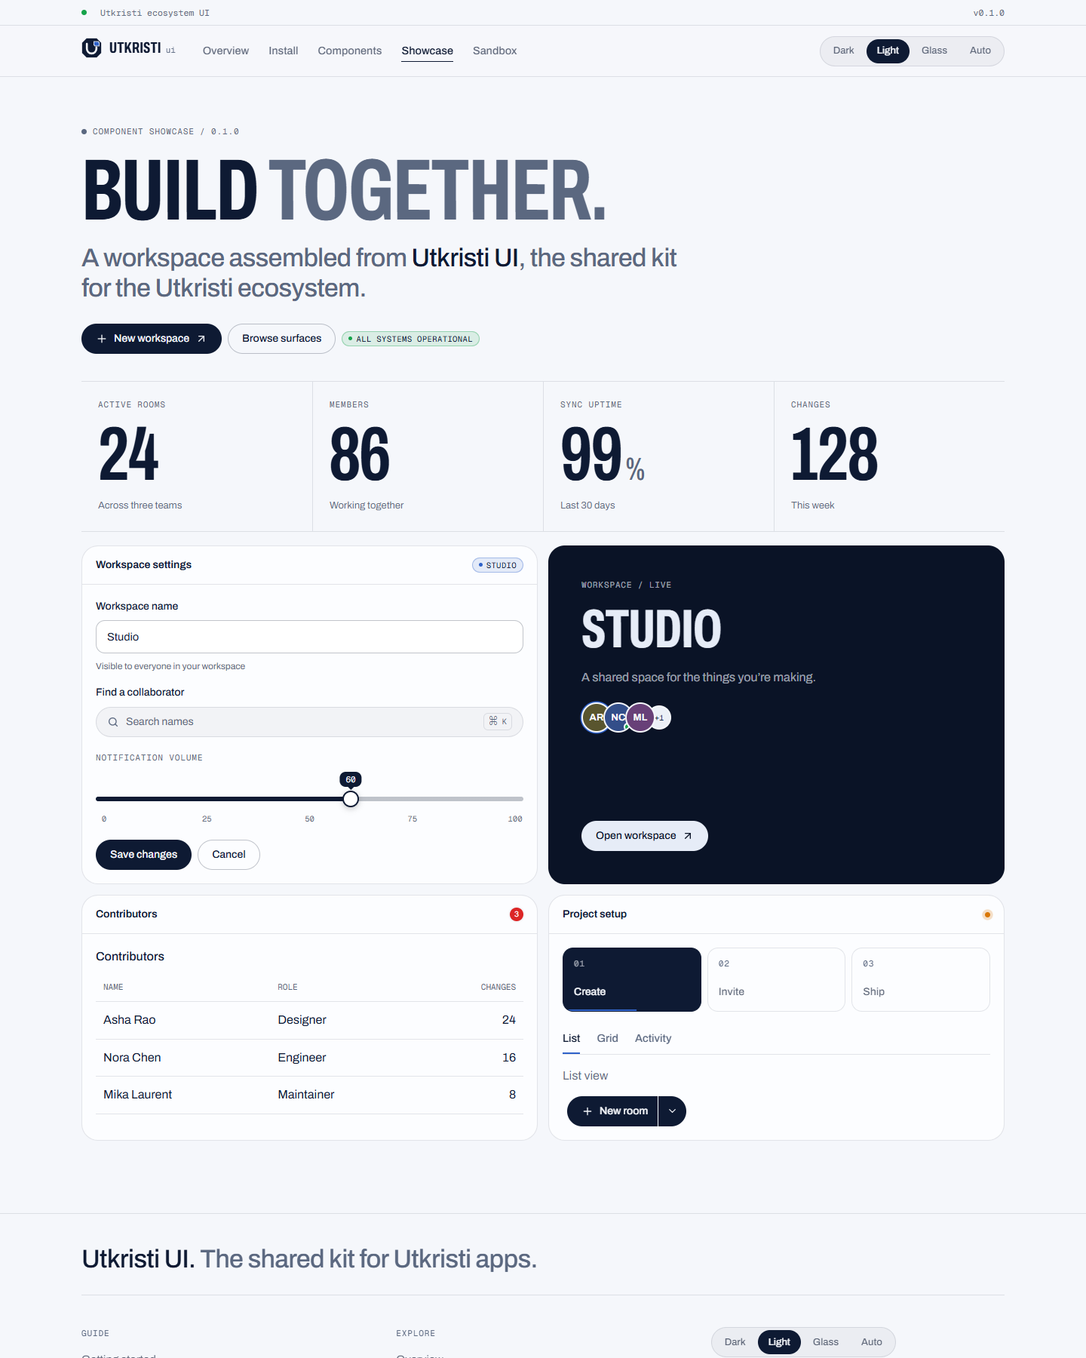
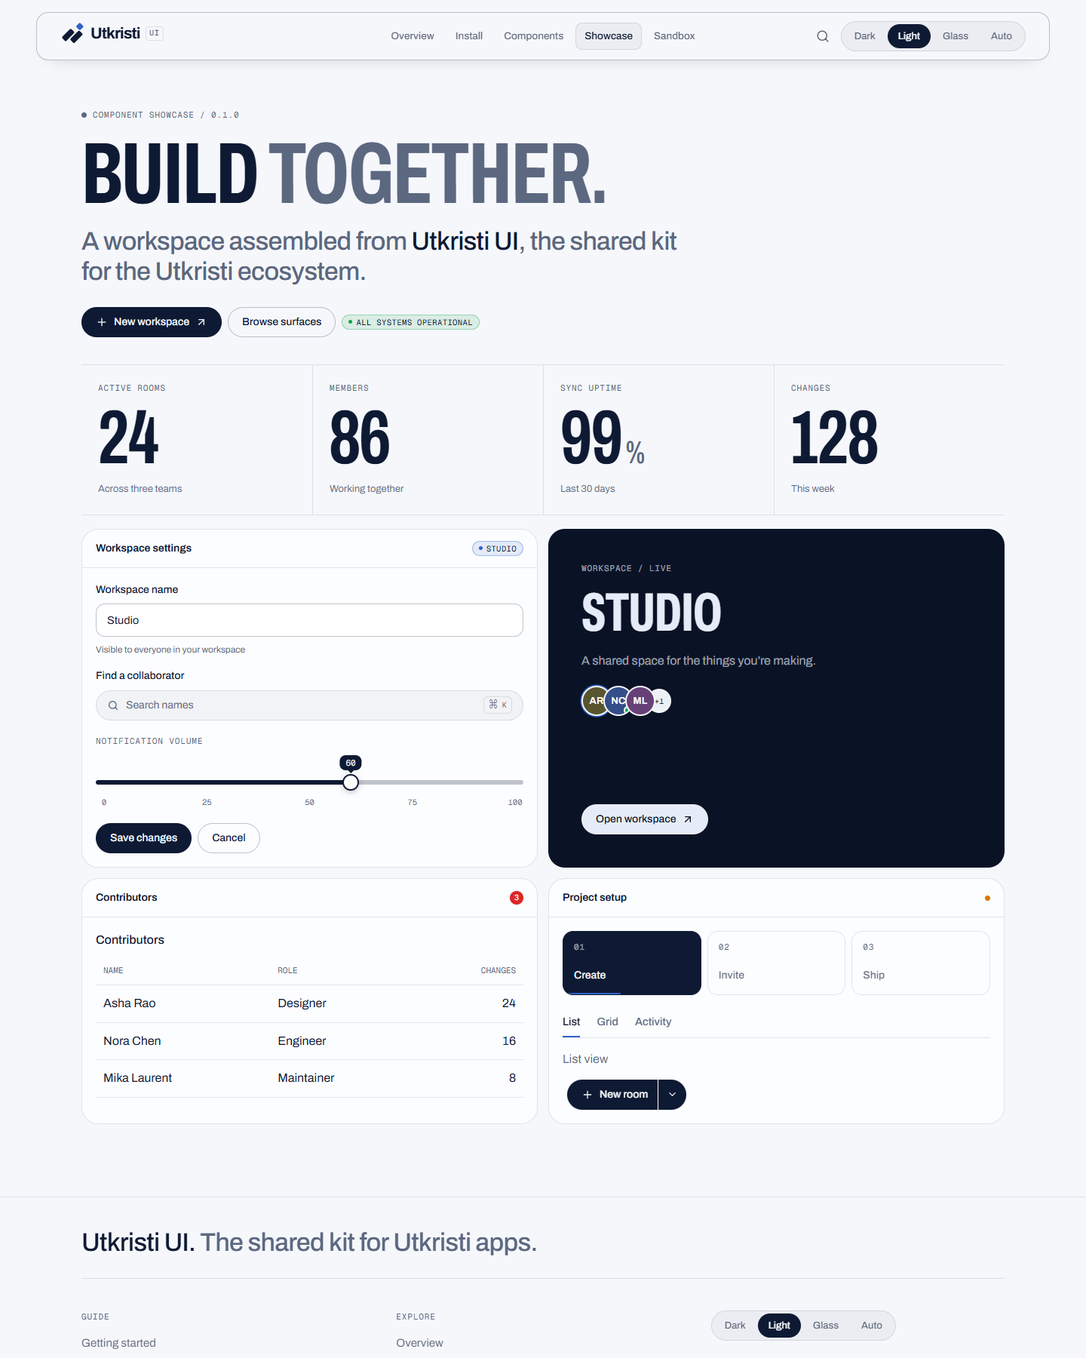
'v0.0.1'

diff --git a/src/styles/components.css b/src/styles/components.css
@@ -173,6 +173,52 @@ button.chip:hover:where(:not(.is-active, [aria-pressed="true"], [aria-checked="t
 .navbar-right { display: flex; align-items: center; gap: 6px; }
 .burger, .icon-btn.burger { display: none; }
 
+.header-dock {
+  padding: clamp(8px, 1.35vw, 16px) var(--ut-side) 0;
+}
+.header-dock .strip { background: none; border: 0; }
+.header-dock .strip-inner { padding-inline: 14px; max-inline-size: 1360px; }
+.navbar-dock {
+  inline-size: 100%; max-inline-size: 1360px; margin-inline: auto;
+  height: auto; border: 1px solid var(--ut-navbar-tint, var(--ut-line-2));
+  border-radius: var(--ut-r); box-shadow: 0 10px 24px -20px rgba(0, 0, 0, .38);
+}
+.navbar-dock .navbar-inner {
+  display: grid; grid-template-columns: minmax(max-content, 1fr) minmax(0, auto) minmax(max-content, 1fr);
+  gap: 12px; min-height: 62px; padding: 6px clamp(10px, 1.5vw, 20px);
+}
+.navbar-dock .navbar-right { justify-content: flex-end; }
+.navbar-dock .navbar-links {
+  gap: 4px; min-width: 0; overflow-x: auto; scrollbar-width: none; padding: 3px;
+}
+.navbar-dock .navbar-dock-link {
+  display: inline-flex; align-items: center; flex: none; min-height: 36px; padding: 0 11px; border: 1px solid transparent;
+  border-radius: 9px; font-size: 13.5px; font-weight: 500; line-height: 1; white-space: nowrap;
+}
+.navbar-dock .navbar-dock-link:hover { background: var(--ut-control-tint, var(--ut-tint)); }
+.navbar-dock .navbar-dock-link:is([aria-current="page"], [aria-current="true"], .is-active) {
+  color: var(--ut-control-ink, var(--ut-ink)); background: var(--ut-control-tint, var(--ut-tint));
+  border-color: var(--ut-control-line, var(--ut-line-2));
+}
+.navbar-dock .navbar-dock-link:focus-visible { outline-offset: -2px; }
+
+.sheet-dock { gap: 18px; padding-top: max(16px, env(safe-area-inset-top)); }
+.sheet-dock .sheet-top { flex: none; min-height: 48px; border-bottom: 1px solid var(--ut-line); padding-bottom: 10px; }
+.sheet-dock .sheet-nav { justify-content: flex-start; gap: 7px; }
+.sheet-dock .sheet-dock-link {
+  display: flex; align-items: center; justify-content: space-between; gap: 12px; min-height: 54px;
+  padding: 10px 14px; border: 1px solid var(--ut-line); border-radius: var(--ut-r-field);
+  color: var(--ut-ink-2); font-size: clamp(16px, 4.5vw, 22px); font-weight: 500; line-height: 1.25;
+}
+.sheet-dock .sheet-dock-link:hover, .sheet-dock .sheet-dock-link[aria-current="page"] {
+  background: var(--ut-tint); color: var(--ut-ink); border-color: var(--ut-line-2);
+}
+.sheet-dock .sheet-dock-link[aria-current="page"]::after {
+  content: ""; flex: none; width: 7px; height: 7px; border-radius: 50%; background: var(--ut-accent);
+}
+.sheet-dock .sheet-foot { flex: none; padding-top: 12px; border-top: 1px solid var(--ut-line); }
+
+
 .pop, .menu {
   min-width: 240px; padding: 6px;
   background: var(--ut-raise) var(--ut-surface-sheen, none); border: 1px solid var(--ut-line); border-radius: 16px; box-shadow: var(--ut-shadow); -webkit-backdrop-filter: var(--ut-surface-filter, none); backdrop-filter: var(--ut-surface-filter, none);
@@ -309,17 +355,16 @@ button.chip:hover:where(:not(.is-active, [aria-pressed="true"], [aria-checked="t
 
 .badge-count { min-width: 18px; height: 18px; padding: 0 5px; border-radius: 999px; background: var(--ut-bad); color: var(--ut-on-bad); font-family: var(--ut-font-mono); font-size: 10px; display: inline-flex; align-items: center; justify-content: center; box-shadow: 0 0 0 2px var(--ut-bg); }
 
-.brand { display: inline-flex; align-items: center; gap: 10px; cursor: pointer; line-height: 1; color: var(--ut-ink, #E8E6DF); }
+.brand { display: inline-flex; align-items: center; gap: 8px; line-height: 1; color: var(--ut-ink, #E8E6DF); }
 .brand-mark { flex: none; display: block; overflow: visible; }
 .brand-tile { fill: var(--ut-brand-ink, var(--ut-ink, #E8E6DF)); transition: fill .4s var(--ut-ease, ease); }
 .brand-ring { stroke: var(--ut-brand-bg, var(--ut-bg, #0B0B0A)); }
 .brand-halo { fill: var(--ut-brand-bg, var(--ut-bg, #0B0B0A)); }
-.brand-dot { fill: var(--ut-brand-accent, var(--ut-accent, #9CC3FF)); transform-box: fill-box; transform-origin: center; transition: transform .5s var(--ut-ease, ease); }
-.brand:hover .brand-dot { transform: scale(1.25); fill: var(--ut-brand-ink, var(--ut-ink, #E8E6DF)); }
-.brand:hover .brand-tile { fill: var(--ut-brand-accent, var(--ut-accent, #9CC3FF)); }
-.brand-name { display: inline-flex; align-items: baseline; gap: .34em; white-space: nowrap; }
-.brand-pre { font-family: var(--ut-font-display, 'Archivo', sans-serif); font-stretch: 62%; font-weight: 700; text-transform: uppercase; letter-spacing: .01em; font-size: 1.14em; color: var(--ut-brand-ink, var(--ut-ink, #E8E6DF)); }
-.brand-co { font-family: var(--ut-font-mono, monospace); font-weight: 400; font-size: .6em; color: var(--ut-brand-muted, var(--ut-ink-3, #8E8B83)); }
+.brand-dot { fill: var(--ut-brand-accent, var(--ut-accent, #9CC3FF)); transition: transform .25s var(--ut-ease); }
+.brand:hover .brand-dot { transform: translate(1px, -1px); }
+.brand-name { display: inline-flex; align-items: center; gap: .36em; white-space: nowrap; }
+.brand-pre { font-family: var(--ut-font-text, 'Archivo', sans-serif); font-weight: 700; letter-spacing: -.045em; font-size: 1em; color: var(--ut-brand-ink, var(--ut-ink, #E8E6DF)); }
+.brand-co { font-family: var(--ut-font-mono, monospace); font-weight: 500; font-size: .49em; text-transform: uppercase; letter-spacing: .06em; padding: .32em .4em; border: 1px solid var(--ut-control-line, var(--ut-line-2)); border-radius: 4px; color: var(--ut-brand-muted, var(--ut-ink-3, #8E8B83)); }
 
 @keyframes ut-up { from { transform: translateY(40px); opacity: 0; } }
 
@@ -548,6 +593,7 @@ input.switch { display: inline-block; margin: 0; }
 
 @media (max-width: 980px) {
   .navbar-links { display: none; }
+  .navbar-dock .navbar-inner { grid-template-columns: minmax(0, 1fr) auto; }
   .burger, .icon-btn.burger { display: inline-flex; }
   .stats { grid-template-columns: repeat(2, minmax(0, 1fr)); }
   .stat:nth-child(odd) { border-left: 0; }
@@ -556,6 +602,8 @@ input.switch { display: inline-block; margin: 0; }
 
 @media (max-width: 700px) {
   .navbar { height: 60px; }
+  .navbar-dock { height: auto; }
+  .navbar-dock .navbar-inner { min-height: 52px; }
   .steps { grid-template-columns: minmax(0, 1fr); }
   .step { flex-direction: row; justify-content: space-between; align-items: center; gap: 10px; }
   .modal-backdrop { align-items: flex-end; padding: 0; }
@@ -577,7 +625,7 @@ input.switch { display: inline-block; margin: 0; }
 @media (prefers-reduced-motion: reduce) {
   .pop, .modal-backdrop, .modal, .sheet, .sheet-lines > * > a > span, .toast,
   .dot::after, .skeleton, .step.is-running::after, .grain { animation: none; }
-  .link::after, .tab::after, .header { transition: none; }
+  .link::after, .tab::after, .header, .brand-dot { transition: none; }
 }
 
 

diff --git a/src/react/Navbar.tsx b/src/react/Navbar.tsx
@@ -13,6 +13,8 @@ type RenderLink = (link: NavbarLink, props: AnchorHTMLAttributes<HTMLAnchorEleme
 
 export interface NavbarProps extends HTMLAttributes<HTMLElement> {
   brand?: ReactNode;
+  /** Display navigation in an inset bar with centered links. */
+  variant?: 'standard' | 'dock';
   links?: NavbarLink[];
   renderLink?: RenderLink;
   right?: ReactNode;
@@ -24,20 +26,24 @@ export interface NavbarProps extends HTMLAttributes<HTMLElement> {
 
 const defaultLink: RenderLink = (link, { children, ...props }) => <a href={link.href} {...props}>{children}</a>;
 
-function MobileSheet({ id, brand, links, renderLink, onSearch, sheetFoot, onClose }: Pick<NavbarProps, 'brand' | 'onSearch' | 'sheetFoot'> & {
+function MobileSheet({ id, brand, links, renderLink, onSearch, sheetFoot, variant, onClose }: Pick<NavbarProps, 'brand' | 'onSearch' | 'sheetFoot' | 'variant'> & {
   id: string; links: NavbarLink[]; renderLink: RenderLink; onClose: () => void;
 }) {
   const ref = useRef<HTMLDivElement>(null);
-  useDialogFocus(ref, onClose);
+  const closeButton = useRef<HTMLButtonElement>(null);
+  const dock = variant === 'dock';
+  useDialogFocus(ref, onClose, dock ? closeButton : undefined);
   useScrollLock(true);
-  return <div id={id} ref={ref} role="dialog" aria-modal="true" aria-label="Menu" tabIndex={-1} className="sheet">
-    <div className="sheet-top">{brand}<IconButton label="Close menu" onClick={onClose}><Icon name="close" size={22} /></IconButton></div>
+  return <div id={id} ref={ref} role="dialog" aria-modal="true" aria-label="Menu" tabIndex={-1} className={cx('sheet', dock && 'sheet-dock')}>
+    <div className="sheet-top" onClickCapture={(event) => {
+      if (event.target instanceof Element && event.target.closest('a[href]')) onClose();
+    }}>{brand}<IconButton ref={closeButton} label="Close menu" onClick={onClose}><Icon name="close" size={22} /></IconButton></div>
     {onSearch && <button type="button" className="sheet-search" onClick={() => { onClose(); onSearch(); }}>
       <Icon name="search" size={18} /><span>Search pages</span>
     </button>}
-    <nav aria-label="Primary" className="sheet-nav sheet-lines">
+    <nav aria-label="Primary" className={cx('sheet-nav', !dock && 'sheet-lines')}>
       {links.map((link, index) => <div key={link.href} style={{ '--d': `${80 + index * 70}ms` } as CSSVariables}>{renderLink(link, {
-        className: 'display', 'aria-current': link.active ? 'page' : undefined, onClick: onClose,
+        className: dock ? 'sheet-dock-link' : 'display', 'aria-current': link.active ? 'page' : undefined, onClick: onClose,
         children: <span>{link.label}</span>,
       })}</div>)}
     </nav>
@@ -46,12 +52,13 @@ function MobileSheet({ id, brand, links, renderLink, onSearch, sheetFoot, onClos
 }
 
 export const Navbar = forwardRef<HTMLElement, NavbarProps>(function Navbar(
-  { brand = <Logo size={28} />, links = [], renderLink = defaultLink, right, strip, hideOnScroll, onSearch,
+  { brand = <Logo size={28} />, variant = 'standard', links = [], renderLink = defaultLink, right, strip, hideOnScroll, onSearch,
     sheetFoot, className, children, ...props }, ref,
 ) {
   const [open, setOpen] = useState(false);
   const [away, setAway] = useState(false);
   const id = useId();
+  const dock = variant === 'dock';
 
   useEffect(() => {
     if (!hideOnScroll) return;
@@ -81,18 +88,23 @@ export const Navbar = forwardRef<HTMLElement, NavbarProps>(function Navbar(
     return () => narrow.removeEventListener('change', change);
   }, [open]);
 
+  const navigation = links.length ? <nav className="navbar-links" aria-label="Primary">
+    {links.map((link) => <Fragment key={link.href}>{renderLink(link, {
+      className: dock ? 'navbar-dock-link' : 'link',
+      'aria-current': link.active ? 'page' : undefined,
+      children: link.label,
+    })}</Fragment>)}
+  </nav> : null;
+
   return <>
-    <header {...props} ref={ref} className={cx('header', hideOnScroll && away && !open && 'is-away', className)}>
+    <header {...props} ref={ref} className={cx('header', dock && 'header-dock', hideOnScroll && away && !open && 'is-away', className)}>
       {strip && <div className="strip"><div className="strip-inner"><div>{strip.left}</div><div>{strip.right}</div></div></div>}
-      <div className="navbar"><div className="navbar-inner">
+      <div className={cx('navbar', dock && 'navbar-dock')}><div className="navbar-inner">
         <div className="navbar-left">
           {brand}
-          <nav className="navbar-links" aria-label="Primary">
-            {links.map((link) => <Fragment key={link.href}>{renderLink(link, {
-              className: 'link', 'aria-current': link.active ? 'page' : undefined, children: link.label,
-            })}</Fragment>)}
-          </nav>
+          {!dock && navigation}
         </div>
+        {dock && navigation}
         <div className="navbar-right">
           {right}
           <IconButton label="Open menu" className="burger" aria-expanded={open} aria-controls={open ? id : undefined} onClick={() => setOpen(true)}>
@@ -103,7 +115,7 @@ export const Navbar = forwardRef<HTMLElement, NavbarProps>(function Navbar(
       {children}
     </header>
     {open && <Portal><MobileSheet id={id} brand={brand} links={links} renderLink={renderLink}
-      onSearch={onSearch} sheetFoot={sheetFoot} onClose={() => setOpen(false)} /></Portal>}
+      onSearch={onSearch} sheetFoot={sheetFoot} variant={variant} onClose={() => setOpen(false)} /></Portal>}
   </>;
 });
 

diff --git a/docs/src/examples.tsx b/docs/src/examples.tsx
@@ -195,10 +195,10 @@ export const examples = {
     jsx: '<EmptyState title="No rooms" action={<Button>Create room</Button>}><p>Your rooms will appear here.</p></EmptyState>',
   },
   navbar: {
-    name: 'Navbar', description: 'Responsive navigation with a full-screen mobile sheet.',
-    preview: () => <Navbar links={links} strip={{ left: 'Utkristi UI', right: '0.1.0' }} right={<IconButton label="Search"><Search size={17} /></IconButton>} />,
-    html: '<header class="header"><div class="navbar"><div class="navbar-inner"><nav class="navbar-links" aria-label="Primary"><a href="#/overview" class="link">Overview</a></nav><button class="icon-btn burger" aria-label="Open menu">☰</button></div></div></header>',
-    jsx: '<Navbar links={[{ href: "/", label: "Overview", active: true }]} />',
+    name: 'Navbar', description: 'Choose a full-width header or an inset dock with centered links and a mobile sheet.',
+    preview: () => <Navbar variant="dock" links={links} right={<IconButton label="Search"><Search size={17} /></IconButton>} />,
+    html: '<header class="header header-dock"><div class="navbar navbar-dock"><div class="navbar-inner"><div class="navbar-left">Utkristi UI</div><nav class="navbar-links" aria-label="Primary"><a href="#/overview" class="navbar-dock-link" aria-current="page">Overview</a></nav><div class="navbar-right"><button class="icon-btn burger" aria-label="Open menu">☰</button></div></div></div></header>',
+    jsx: '<Navbar variant="dock" links={[{ href: "/", label: "Overview", active: true }]} />',
   },
   footer: {
     name: 'Footer', description: 'Link columns, an optional theme control, and a fitted wordmark.',
@@ -255,9 +255,9 @@ export const examples = {
     jsx: '<Code lines={["npm run build", "npm test"]} />',
   },
   logo: {
-    name: 'Logo', description: 'The ecosystem kit’s geometric U mark with a configurable wordmark.',
+    name: 'Logo', description: 'Two rising ribbons and a floating accent tile form the ecosystem mark. Use it with a configurable wordmark or on its own.',
     preview: () => <div className="sample-row"><Logo /><Logo compact size={24} /></div>,
-    html: '<span class="brand"><span class="brand-name"><span class="brand-pre">Utkristi</span><span class="brand-co">ui</span></span></span>',
+    html: '<span class="brand" role="img" aria-label="Utkristi UI"><svg class="brand-mark" width="30" height="30" viewBox="0 0 32 32" aria-hidden="true"><path class="brand-tile" fill="currentColor" d="M2.8 20.5 12.6 10.7a1.65 1.65 0 0 1 2.3 0l3.1 3.1a1.65 1.65 0 0 1 0 2.3l-9.8 9.8a1.65 1.65 0 0 1-2.3 0l-3.1-3.1a1.65 1.65 0 0 1 0-2.3Z" /><path class="brand-tile" fill="currentColor" transform="translate(11 2.5)" d="M2.8 20.5 12.6 10.7a1.65 1.65 0 0 1 2.3 0l3.1 3.1a1.65 1.65 0 0 1 0 2.3l-9.8 9.8a1.65 1.65 0 0 1-2.3 0l-3.1-3.1a1.65 1.65 0 0 1 0-2.3Z" /><path class="brand-dot" fill="currentColor" d="m21.4 6.3 3.5-3.5a1.25 1.25 0 0 1 1.8 0l3.5 3.5a1.25 1.25 0 0 1 0 1.8l-3.5 3.5a1.25 1.25 0 0 1-1.8 0l-3.5-3.5a1.25 1.25 0 0 1 0-1.8Z" /></svg><span class="brand-name" aria-hidden="true"><span class="brand-pre">Utkristi</span><span class="brand-co">ui</span></span></span>',
     jsx: '<Logo size={30} name="Utkristi" suffix="ui" />',
   },
   spinner: {

diff --git a/docs/src/main.tsx b/docs/src/main.tsx
@@ -1,13 +1,14 @@
 import { lazy, StrictMode, Suspense, useEffect, useRef, useState, type ReactNode } from 'react';
 import { createRoot } from 'react-dom/client';
-import { ArrowRight, ArrowUpRight, Plus } from 'lucide-react';
+import { ArrowRight, ArrowUpRight, Plus, Search } from 'lucide-react';
 import {
-  Badge, Button, Card, CardBody, CardHeader, Code, Dot, Field, Input, Logo, SearchInput,
+  Badge, Button, Card, CardBody, CardHeader, Code, Dot, Field, IconButton, Input, Logo, SearchInput,
   Shell, Slider, Stat, Stats, Tabs, ThemeProvider, ThemeSwitch, ToastProvider, useTheme,
 } from '@utkristi/ui';
 import { componentPages, examples } from './examples';
 import { FontDemo } from './catalog';
 import { CopyCode } from './CopyCode';
+import { DocsSearch } from './DocsSearch';
 import tokenCSS from '../../src/styles/tokens.css?raw';
 import './styles.css';
 
@@ -244,6 +245,7 @@ function Sidebar({ path }: { path: string }) {
 
 function App() {
   const [{ path, theme, sample }, setRoute] = useState(route);
+  const [searchOpen, setSearchOpen] = useState(false);
   useEffect(() => {
     const update = () => { setRoute(route()); window.scrollTo(0, 0); };
     window.addEventListener('hashchange', update);
@@ -269,10 +271,13 @@ function App() {
   const standalone = path === '/overview' || path === '/showcase' || path === '/sandbox';
   return <ThemeProvider forcedTheme={theme}><ToastProvider>
     <Shell navbar={{
-      brand: <a href="#/overview" aria-label="Utkristi UI overview"><Logo size={27} /></a>,
+      variant: 'dock',
+      brand: <a href="#/overview" aria-label="Utkristi UI overview"><Logo size={32} /></a>,
       links: primary.map((item) => ({ ...item, active: item.href === `#${path}` || (item.label === 'Components' && !!component) })),
-      strip: { left: <><Dot static /> Utkristi ecosystem UI</>, right: 'v0.1.0' },
-      right: <ThemeSwitch className="nav-theme" />, sheetFoot: <ThemeSwitch />,
+      onSearch: () => setSearchOpen(true),
+      right: <><IconButton label="Search docs" onClick={() => setSearchOpen(true)}><Search size={18} /></IconButton>
+        <ThemeSwitch className="nav-theme" /></>,
+      sheetFoot: <div className="docs-sheet-theme"><span className="label">Appearance</span><ThemeSwitch /></div>,
     }} footer={{
       lede: <><b>Utkristi UI.</b> The shared kit for Utkristi apps.</>,
       columns: [{ title: 'Guide', links: guide }, { title: 'Explore', links: primary }],
@@ -281,6 +286,7 @@ function App() {
     }}>
       {standalone ? content : <div className="doc-layout"><Sidebar path={path} />{content}</div>}
     </Shell>
+    {searchOpen && <DocsSearch onClose={() => setSearchOpen(false)} pages={guide} />}
   </ToastProvider></ThemeProvider>;
 }
 

diff --git a/test/navbar.test.tsx b/test/navbar.test.tsx
@@ -1,0 +1,47 @@
+import { render, screen, within } from '@testing-library/react';
+import userEvent from '@testing-library/user-event';
+import { expect, test, vi } from 'vitest';
+import { Logo, Navbar } from '../src/react/index.js';
+
+test('the dock menu is themed and restores focus after dismissal and navigation', async () => {
+  const user = userEvent.setup();
+  const search = vi.fn();
+  render(<div data-theme="glass"><Navbar variant="dock" brand={<a href="#home"><Logo /></a>}
+    links={[{ href: '#home', label: 'Home', active: true }, { href: '#docs', label: 'Docs' }]}
+    onSearch={search} /></div>);
+  const header = screen.getByRole('banner');
+  const trigger = screen.getByRole('button', { name: 'Open menu' });
+  expect(header).toHaveClass('header-dock');
+  expect(within(header).getByRole('link', { name: 'Home' })).toHaveAttribute('aria-current', 'page');
+
+  await user.click(trigger);
+  const sheet = screen.getByRole('dialog', { name: 'Menu' });
+  expect(sheet).toHaveClass('sheet-dock');
+  expect(sheet.closest('[data-theme]')).toHaveAttribute('data-theme', 'glass');
+  expect(within(sheet).getByRole('button', { name: 'Close menu' })).toHaveFocus();
+  await user.keyboard('{Escape}');
+  expect(sheet).not.toBeInTheDocument();
+  expect(trigger).toHaveFocus();
+
+  await user.click(trigger);
+  await user.click(within(screen.getByRole('dialog')).getByRole('link', { name: 'Docs' }));
+  expect(screen.queryByRole('dialog')).not.toBeInTheDocument();
+  expect(trigger).toHaveFocus();
+
+  await user.click(trigger);
+  await user.click(screen.getByRole('button', { name: 'Search pages' }));
+  expect(search).toHaveBeenCalledOnce();
+  expect(screen.queryByRole('dialog')).not.toBeInTheDocument();
+
+  await user.click(trigger);
+  await user.click(within(screen.getByRole('dialog')).getByRole('link', { name: /Utkristi UI/i }));
+  expect(screen.queryByRole('dialog')).not.toBeInTheDocument();
+});
+
+test('logo retains accessible text when used as a standalone mark', () => {
+  render(<Logo compact size={20} name="Utkristi" suffix="Design" />);
+  const mark = screen.getByRole('img', { name: 'Utkristi Design' });
+  expect(mark.querySelector('svg')).toHaveAttribute('width', '20');
+  expect(mark.querySelectorAll('svg path')).toHaveLength(3);
+  expect(mark).toHaveTextContent(/^$/);
+});

diff --git a/src/react/Logo.tsx b/src/react/Logo.tsx
@@ -14,10 +14,9 @@ export const Logo = forwardRef<HTMLSpanElement, LogoProps>(function Logo(
   return <span role="img" aria-label={[name, suffix].filter(Boolean).join(' ')} {...props} ref={ref}
     className={cx('brand', className)} style={{ '--ut-brand-size': `${Math.round(size * .66)}px`, ...style } as CSSVariables}>
     <svg className="brand-mark" width={size} height={size} viewBox="0 0 32 32" aria-hidden="true">
-      <path className="brand-tile" d="M1 8 8 1h16l7 7v16l-7 7H8l-7-7Z" />
-      <path className="brand-ring" d="M8.5 9.5v7.8a7.5 7.5 0 0 0 15 0v-2" fill="none" strokeWidth="3.1" strokeLinecap="round" />
-      <path className="brand-halo" d="M19 5.5h7.5l2 2v6h-7.5l-2-2Z" />
-      <path className="brand-dot" d="M20 6.5h6l1.5 1.5v4.5h-6L20 11Z" />
+      <path className="brand-tile" fill="currentColor" d="M2.8 20.5 12.6 10.7a1.65 1.65 0 0 1 2.3 0l3.1 3.1a1.65 1.65 0 0 1 0 2.3l-9.8 9.8a1.65 1.65 0 0 1-2.3 0l-3.1-3.1a1.65 1.65 0 0 1 0-2.3Z" />
+      <path className="brand-tile" fill="currentColor" transform="translate(11 2.5)" d="M2.8 20.5 12.6 10.7a1.65 1.65 0 0 1 2.3 0l3.1 3.1a1.65 1.65 0 0 1 0 2.3l-9.8 9.8a1.65 1.65 0 0 1-2.3 0l-3.1-3.1a1.65 1.65 0 0 1 0-2.3Z" />
+      <path className="brand-dot" fill="currentColor" d="m21.4 6.3 3.5-3.5a1.25 1.25 0 0 1 1.8 0l3.5 3.5a1.25 1.25 0 0 1 0 1.8l-3.5 3.5a1.25 1.25 0 0 1-1.8 0l-3.5-3.5a1.25 1.25 0 0 1 0-1.8Z" />
     </svg>
     {!compact && <span className="brand-name" aria-hidden="true"><span className="brand-pre">{name}</span>{suffix && <span className="brand-co">{suffix}</span>}</span>}
   </span>;

diff --git a/docs/src/styles.css b/docs/src/styles.css
@@ -18,6 +18,7 @@
 .overview-grid { margin-top: 44px; }
 .theme-preview { container-type: inline-size; padding: clamp(12px, 2vw, 24px); border-radius: var(--ut-r-lg); border: 1px solid var(--ut-line); background: var(--ut-bg); color: var(--ut-ink); min-width: 0; }
 .preview-content { margin-top: 24px; min-width: 0; }
+.preview-content .header-dock { padding: 0; }
 .preview-content .navbar-inner, .preview-content .strip-inner { padding-inline: 10px; }
 .preview-content .navbar-left { gap: 14px; }
 .preview-content .navbar-links { gap: 12px; }
@@ -92,6 +93,7 @@
 
 @container (max-width: 380px) {
   .preview-content .navbar-links { display: none; }
+  .preview-content .navbar-dock .navbar-inner { grid-template-columns: minmax(0, 1fr) auto; }
   .preview-content .burger { display: inline-flex; }
   .preview-content .sample-grid { grid-template-columns: minmax(0, 1fr); }
 }
@@ -114,6 +116,7 @@
   .sample-stats .stat, .showcase-stats .stat { padding-inline: 12px; }
 }
 
+.docs-sheet-theme { display: grid; gap: 8px; }
 .catalog-frame { display: grid; place-items: center; border-radius: var(--ut-r); background: var(--ut-bg-3); }
 .catalog-slide { min-block-size: 128px; display: grid; align-content: center; gap: 7px; }
 .catalog-slide strong { font-size: 1.7rem; line-height: 1; }

diff --git a/docs/src/DocsSearch.tsx b/docs/src/DocsSearch.tsx
@@ -1,0 +1,19 @@
+import { useRef } from 'react';
+import { Command, Modal } from '@utkristi/ui';
+import { componentPages } from './examples';
+
+interface SearchLink { href: string; label: string }
+const components = componentPages.map(([slug, { name }]) => ({ href: '#/components/' + slug, label: name }));
+
+export function DocsSearch({ onClose, pages }: { onClose: () => void; pages: readonly SearchLink[] }) {
+  const input = useRef<HTMLInputElement | null>(null);
+  const options = [...pages, ...components].map(({ href, label }) => ({
+    value: href,
+    label,
+    onSelect: () => { onClose(); window.location.hash = href; },
+  }));
+  return <Modal open onClose={onClose} title="Search docs" initialFocus={input}>
+    <Command ref={(node) => { input.current = node?.querySelector('input') ?? null; }} options={options}
+      label="Find a component or guide" placeholder="Find a component or guide" />
+  </Modal>;
+}

diff --git a/CHANGELOG.md b/CHANGELOG.md
@@ -2,6 +2,8 @@
 
 ## Unreleased
 
+- Designed a new ecosystem mark and added an inset Navbar dock with a compact mobile menu.
+
 - Added an editable component sandbox, full example source, and prop references to the hosting-ready docs.
 - Added the ecosystem logo and refined the Glass surfaces.
 
